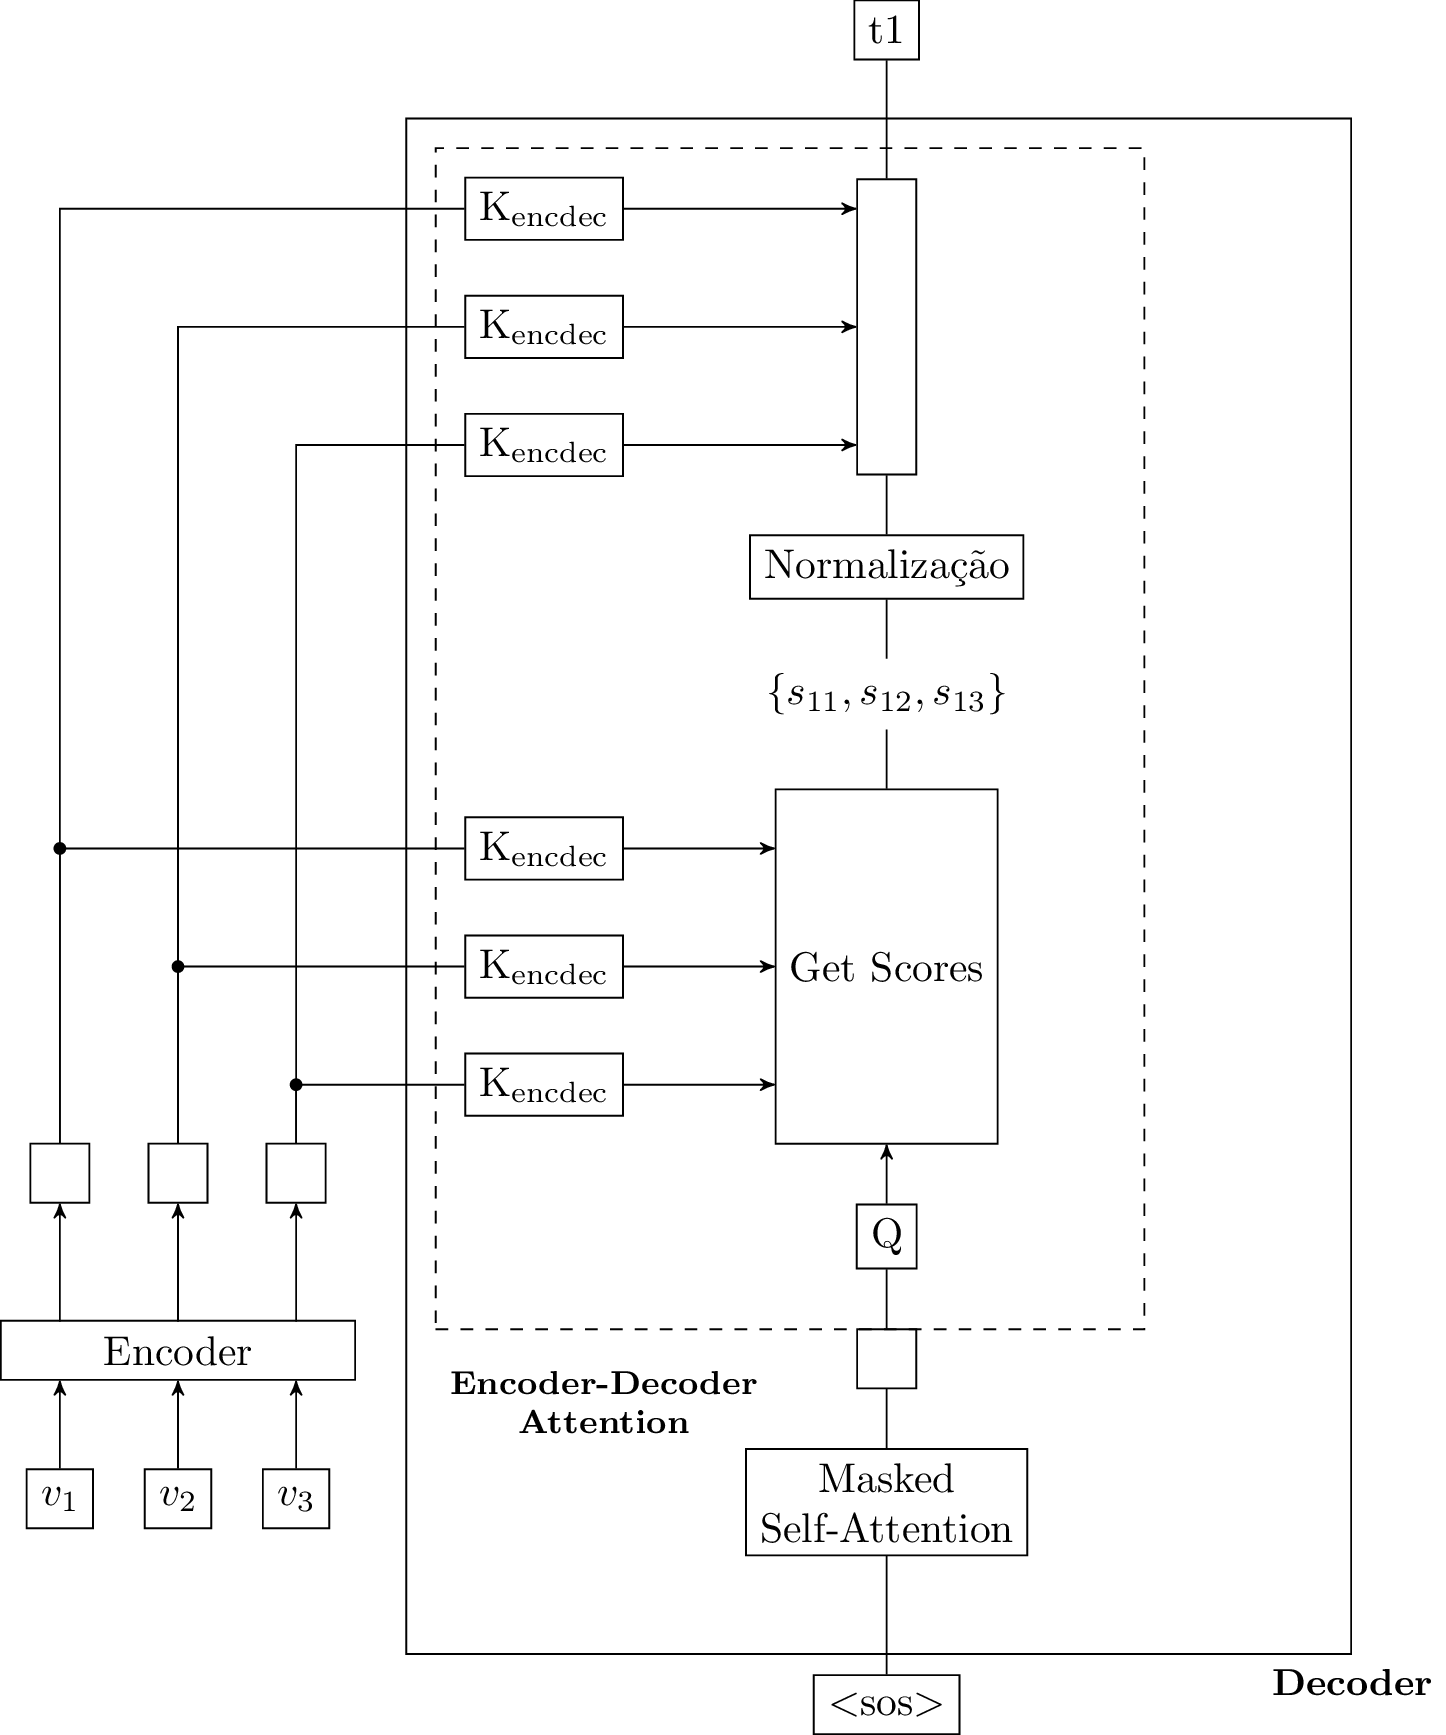
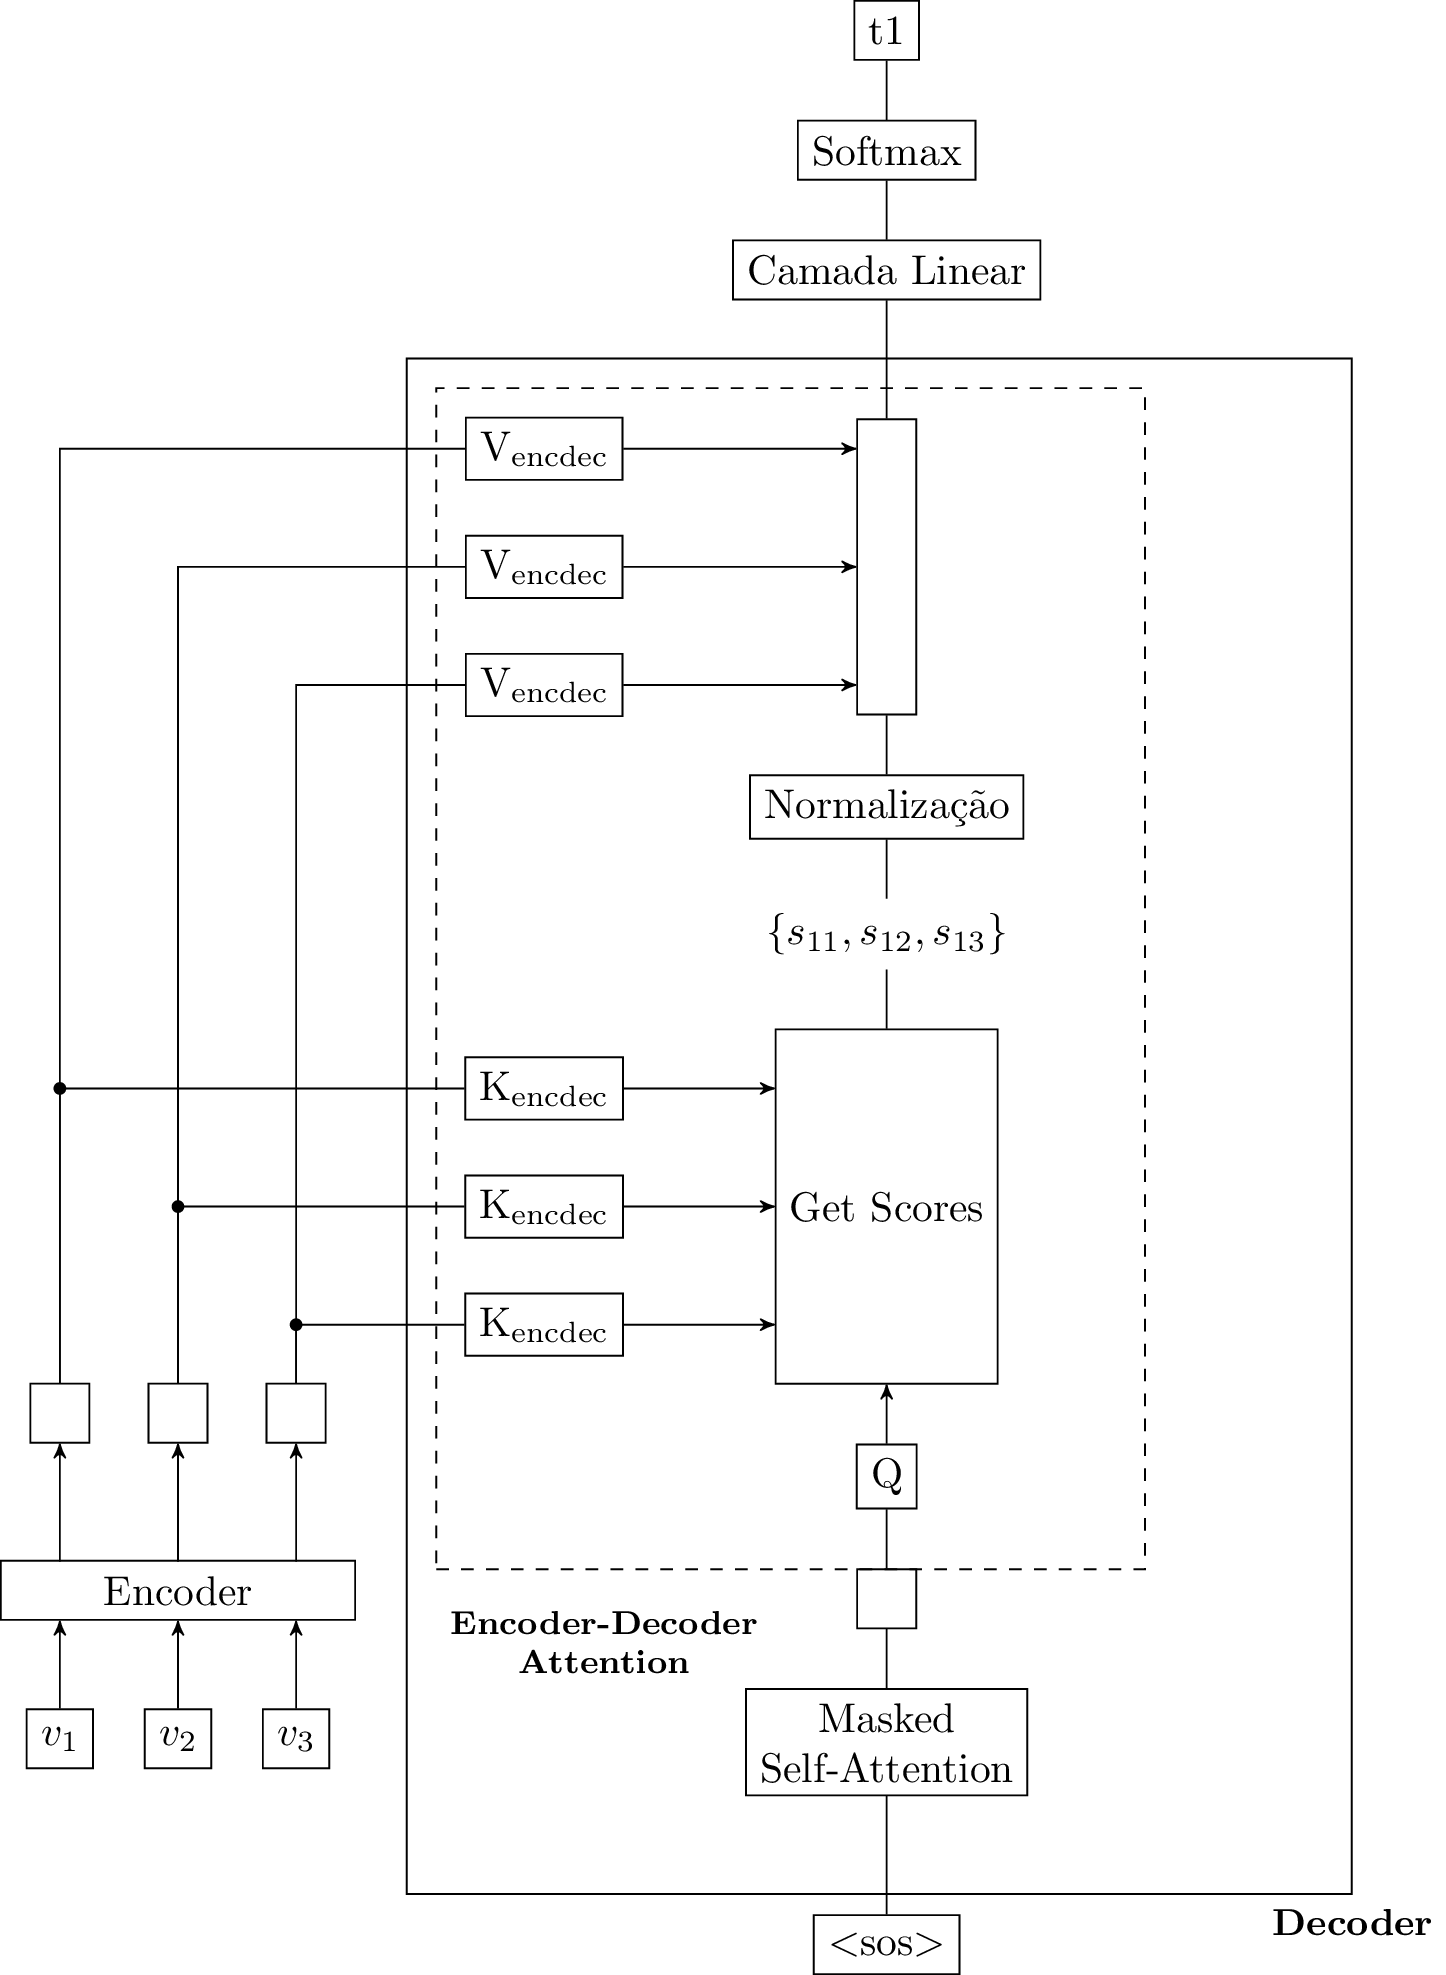
Trabalhando na parte do texto do decoder.

diff --git a/deep-learning/transformers/transformer's-decoder.md b/deep-learning/transformers/transformer's-decoder.md
@@ -1,47 +1,22 @@
 # Decoder da arquitetura Transformer
 
-Como vamos do embedding contextualizado entregue pelo encoder de Transformer para uma frase em outro idioma (no contexto de tradução).
+Agora que já sabemos como o decoder de um modelo transformer funciona, precisamos entender como vamos do embedding contextualizado entregue pelo encoder até uma frase totalmente traduzida (no contexto de tradução). Para entender esse processo, precisamos cobrir o funcionamento do decoder do modelo transformer.
 
-A partir de uma perspectiva de muito alto nível, o encoder e o decoder interagem da seguinte maneira:
+Nesse sentido, a partir de uma perspectiva de muito alto nível, o encoder e o decoder interagem da seguinte maneira:
 
 <div align="center">
 <img src="images/fig4.png" alt="Alt text for the image" width="300"/>
 </div>
 
-{% hint style="warning" %}
-Novas matrizes K e V?
-{% endhint %}
-
-Aqui, podemos pensar primeiramente sobre o mecanismo de masked Self-Attention.
-
-{% hint style="warning" %}
-Considerando que Masked Self Attention faz com que o modelo não roube durante o treinamento, como esse mecanismo atua durante inferência?
-{% endhint %}
-
-
-{% hint style="info" %}
-Input do decoder é diferente em treinamento e inferência:
-
-* Treinamento: frase inteira → paralelização.
-* Inferência: uma palavra por vez. Inferência precisa da natureza sequencial.
-{% endhint %}
-
-{% hint style="warning" %}
-Em treinamento a frase predita **y** é predita de uma só vez? Todas as palavras simultaneamente?
-
-Input diferente ⇒ output diferente?
-
-Acho que isso faz sentido. Talvez possamos inferir todas as próximas palavras simultaneamente.
-{% endhint %}
-
-## Masked Selft-Attention
-Na prática, quando estamos falando de Transformers Decoder, temos a seguinte figura esquemática:
+Quando estamos falando de Transformers Decoder, temos a seguinte figura esquemática:
 
 <div align="center">
 <img src="images/fig5.png" alt="Alt text for the image" width="300"/>
 </div>
 
-Aqui, o podemos diferenciar o funcionamento do decoder em estágio de treinamento e inferência. Primeiramente trataremos do período de treinamento.
+É importante que façamos uma distinção entre o funcionamento do decoder em estágio de treinamento e inferência. Uma sacada muito interessante implementada na arquitetura transformer é modelar uma tarefa inerentemente sequencial (prever a próxima palavra, dado as palavras anteriores em um texto) de modo que, no momento de treinar a rede neural para efetuar essa tarefa, esse treinamento possa ser feito de maneira paralela. 
+
+Contudo, em momento de inferência, a tarefa certamente precisa ser feita de modo sequencial. Assim, para abordar essa questão, primeiramente trataremos do período de treinamento.
 
 ## Decoder em Estágio de Treinamento
 Nessa situação, podemos pensar que o modelo recebe como inputs os seguintes dados:
@@ -51,23 +26,17 @@ Nessa situação, podemos pensar que o modelo recebe como inputs os seguintes da
 
 Em um primeiro momento de atuação do Decoder, a frase inteiramente traduzida é submetida à Masked Self Attention.
 
+### Masked Self-Attention
+
 Aqui, a ideia é estabelecer a relação do próximo output (próxima palavra predita) com os outputs anteriores.
 
 {% hint style="warning" %}
 Podemos pensar em uma analogia com os hidden states do decoder de uma RNN
 {% endhint %}
 
-Para entender como Masked Self Attention funciona, podemos pensar na matriz de Self-Attention:
+Para entender como Masked Self-Attention funciona, podemos pensar na matriz de Self-Attention:
 
 Dado as palavras: $$t_1, t_2  \text{ e } t_3$$ ($$t$$ de "traduzido"), temos a seguinte matriz:
-
-{% hint style="warning" %}
-Como os Transformers lidam com a geração de frases traduzidas que tenham comprimento diferente do da frase no idioma original?
-{% endhint %}
-
-{% hint style="warning" %}
-Isso depende de quando o $$<$$EOS$$>$$ será predito. Podemos lembrar do funcionamento de RNNs.
-{% endhint %}
 
 <div align="center">
 <img src="images/masked0.png" alt="Alt text for the image" width="300"/>
@@ -99,27 +68,35 @@ E assim por diante. Perceba que dessa maneira podemos dar a frase inteira como i
 Esse estágio de Self-Attention no Decoder é muito importante pois a próxima palavra traduzida prevista não está somente em função do output do Encoder. Essa palavra deve estar em função de todas as palavras anteriormente traduzidas.
 
 ### Encoder-Decoder Attention
-Nesse ponto, depois de passarmos por Masked-Self Attention, com o que estamos lidando?
+Agora, depois de passarmos por Masked-Self Attention, com o que estamos lidando?
 
-Primeiro obtemos a matriz de self-attention e a utilizamos para obter o embedding contextualizado de uma palava traduzida em relação à própria frase traduzida.
-
-Aqui, segundo um esquema de self-Attention muito semelhante ao ilustrado em (), no momento de treinamento, cada palavra da frase traduzida origina um vetor $$y$$:
+Primeiro obtemos a matriz de self-attention e a utilizamos para obter o embedding contextualizado de uma palava traduzida em relação à própria frase traduzida. Assim, no momento de treinamento, cada palavra da frase traduzida origina um vetor $$y$$ (que é o embedding contextualizado):
 
 <div align="center">
 <img src="images/fig6.png" alt="Alt text for the image" width="300"/>
 </div>
 
-Agora, chegamos à etapa de Attention entre Encoder e Decoder. Esse conceito de Attention é muito semelhante ao proposto por Attention[^2], no qual quantificamos a relação contextual da próxima palavra predita com todas as palavras da frase no idioma original.
 
-Perceba que se formos utilizar a analogia de Q, K, V nesse caso de Encoder-Decoder Attention, poderemos pensar em um esquema como o seguinte:
+
+Depois disso, chegamos à etapa de Attention entre Encoder e Decoder. Nessa etapa usaremos o segundo tipo de dado que o decoder recebe como entrada (embeddings contextualizados da frase no idioma original).
+
+Esse conceito de Attention é muito semelhante ao proposto por Attention[^2], no qual, quantificamos a relação contextual da próxima palavra predita com todas as palavras da frase no idioma original.
+
+Perceba que, se formos utilizar a analogia de $Q$, $K$, $V$ nesse caso de Encoder-Decoder Attention, poderemos pensar em um esquema como o seguinte:
 
 <div align="center">
 <img src="images/fig7.png" alt="Alt text for the image" width="300"/>
 </div>
 
-Desse modo, cada vetor contextualizado resultado do Encoder é relacionado com cada vetor contextualizado da palavra sendo predita com as palavras da frase original. Obtemos scores dessa relação. A palavra mais relacionada terá maior score e, então, influenciará mais o output.
+Cada vetor contextualizado resultado do Encoder é relacionado com cada vetor contextualizado da palavra sendo predita. Esse relacionamento é treinável (devido a matriz de pesos $K_{\text{encdec}}$). Obtemos scores dessa relação. A palavra mais relacionada terá maior score e, então, influenciará mais o output.
 
-Ao final de uma camada de Transformer's Decoder, teremos um output influenciado por todas as palavras (contextualizadas) da frase original e pelas palavras já traduzidas (contextualizadas).
+Então, normalizamos os scores e os utilizamos para ponderar uma nova representação das palavras do idioma original. Essa nova representação é originada pela matriz de pesos treináveis ($V_{\text{encdec}}$).
+
+Agora, cada palavra é um vetor de tamanho $d$ (lembrando que $d$ é o tamanho do embedding) e precisamos ir transformar esse vetor em um vetor de tamanho $N$, onde $N$ é o tamanho do vocabulário e o valor do elemento $i$ é um score que está relacionado à quão provavel é que a próxima palavra predita seja a palavra $i$ do vocabulário. Note que, caso o embedding das palavras de entrada forem One-Hot encoding, temos que $d = N$. De qualquer forma, para obter esse vetor, basta uma camada linear -- que é mostrada na figura.
+
+Então, para quue esses valores de quão provável a palavra $i$ do vocabulário seja a próxima palavra predita se tornem, de fato, probabilidades, utilizamos a função softmax.
+
+Agora, temos um vetor do tamanho do vocabulário em que cada elemento $i$ corresponde à probabilidade de escolher a palavra $i$ como a próxima palavra da frase traduzida. Assim, para que haja variabilidade nas traduções, é possível que, no lugar de somente tomar $\text{argmax}$ desse vetor, amostremos $i$ de acordo com as probabilidades do vetor. 
 
 ### Considerações Sobre Treinamento
 É razoável pensar tradução como um problema de classificação. Portanto, podemos usar Cross-Entropy como função de perda.
@@ -134,15 +111,11 @@ Isso faz com que o processo de treinamento de uma rede Transformer seja totalmen
 
 {% endhint %}
 
-{% hint style="warning" %}
-O Encoder é treinado juntamente com o Decoder no contexto de tradução de texto?
-{% endhint %}
 
-{% hint style="info" %}
-Acredito que, nessa abordagem de Transformer, como mostrado em Self-attention[^1], Encoder e Decoder são trainados em conjuntom como uma mesma rede (que são)
+## Decoder em Estágio de Treinamento
 
-Contudo, as arquiteturas Encoder/Decoder poderiam ser treinadas separadamente. Por exemplo as aquiteruras Encoder only (BERT) e Decoder only (GPT)
-{% endhint %}
+Agora, quanto ao decoder em fase de inferencia, acontece um processo muito semelhante ao descrito. A única diferença é que o processo não é paralelizável e, por isso, acontece até de maneira mais intuitiva. Uma palavra é predita de cada vez, levando em consideração as palavras preditas anteriormente e o contexto da frase no idioma original. Perceba que, para isso acontecer, não precisamos mudar nada na arquitetura do modelo, até mesmo a camada de Masked Self-Attention, se mantém a mesma.
+
 
 [^1]: Vaswani, A., Shazeer, N., Parmar, N., Uszkoreit, J., Jones, L., Gomez, A. N., Kaiser, L., and Polosukhin, I. (2017). Attention is all you need.
 [^2]: Bahdanau, D., Cho, K., and Bengio, Y. (2014). Neural machine translation by jointly learning to align and translate.
